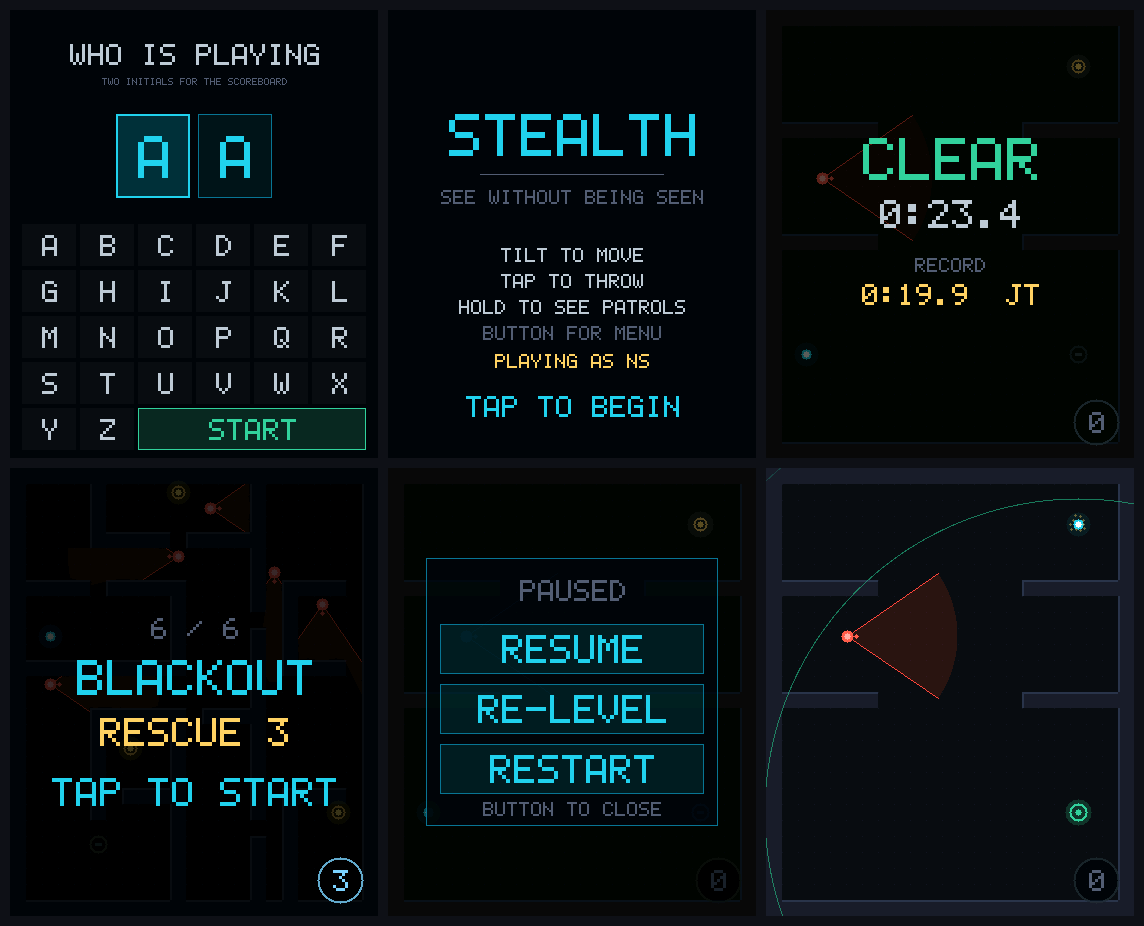
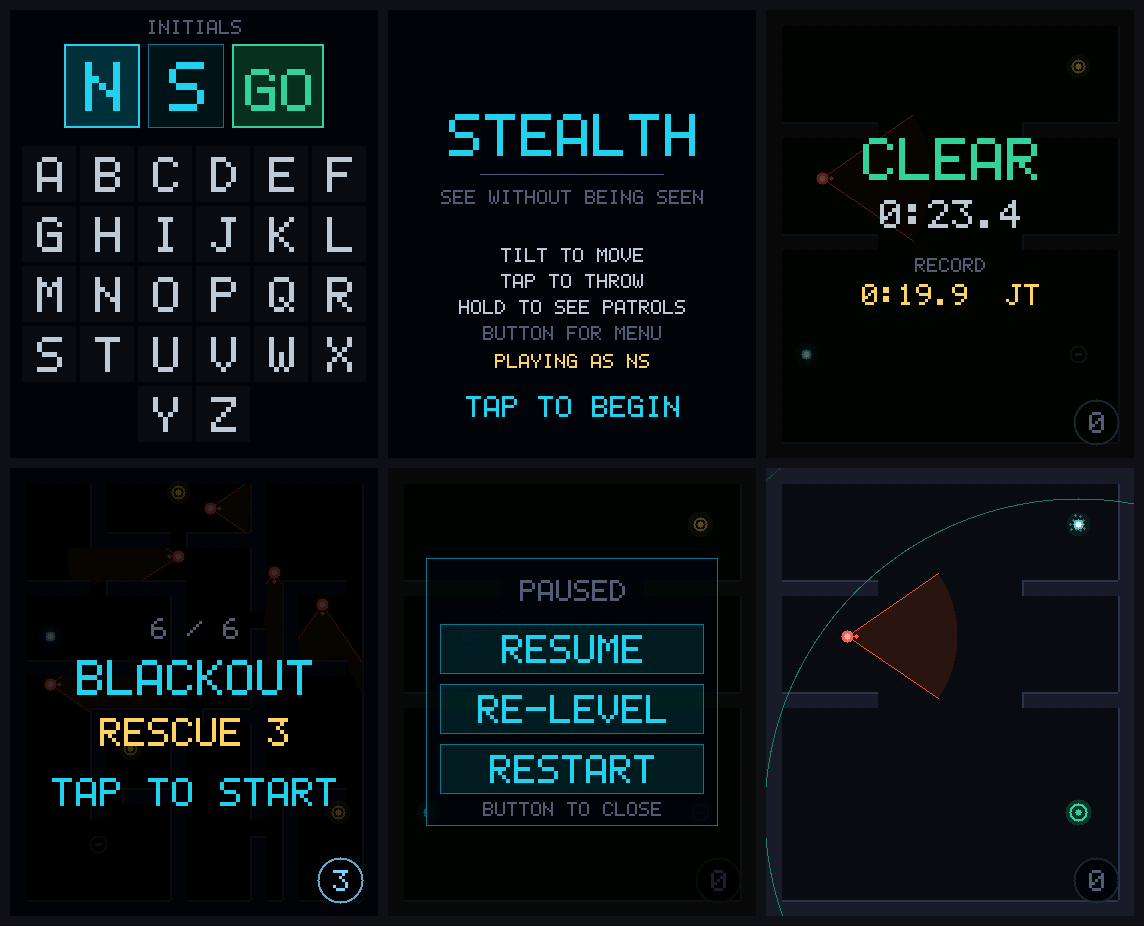
Rework initials entry for bigger, easier keys
The keys were the thing being aimed at and had the least space. Rebalanced:

- The title block shrank to a single dim line; the subtitle is gone
- GO moved out of the grid and up beside the second letter slot, which
  returned a whole row to the keyboard instead of spending it on one button
- Keys grew from 58x46 to 58x60 and their letters from 3x to 5x, so each key
  is a 58x60 target carrying a 25x35 glyph
- Y and Z are centred on the last row; left-aligning two keys under a full
  row of six read as a mistake rather than a layout

The letter slots stay tappable for correcting a mistyped first letter, and
the layout constants still live in game.h so the drawn keys and the hit test
cannot disagree about where a key is.

Changed region(s): [[0.0306, 0.0302, 0.3059, 0.2721], [0.0306, 0.3024, 0.3365, 0.4838]]

diff --git a/main/hud.c b/main/hud.c
@@ -144,45 +144,47 @@ void hud_build_input(game_input_t *in, const touch_state_t *ts,
 
 // ---- Initials entry -------------------------------------------------------
 
-// 26 letters fill the first four rows and the start of the fifth; the two
-// cells left over on the last row become the confirm key.
+// Six letters per row for four rows, then Y and Z centred on the last one -
+// left-aligning two keys under a full row looks like a mistake.
 static char init_key_at(int col, int row)
 {
-    const int i = row * INIT_COLS + col;
-    if (i < 26) return (char)('A' + i);
+    if (row < 4) {
+        const int i = row * INIT_COLS + col;
+        return (i < 26) ? (char)('A' + i) : 0;
+    }
+    if (col == 2) return 'Y';
+    if (col == 3) return 'Z';
     return 0;
 }
 
-static bool init_in_start(int x, int y)
+static bool init_in_go(int x, int y)
 {
-    const int gx = INIT_GRID_X + 2 * INIT_CELL_W;
-    const int gy = INIT_GRID_Y + 4 * INIT_CELL_H;
-    return in_rect(x, y, gx, gy, 4 * INIT_CELL_W, INIT_CELL_H);
+    return in_rect(x, y, INIT_GO_X, INIT_SLOT_Y, INIT_GO_W, INIT_SLOT_H);
 }
 
 void initials_input(game_t *g, const touch_state_t *ts, game_input_t *in)
 {
     if (!ts->pressed) return;
 
-    if (init_in_start(ts->x, ts->y)) {
+    if (init_in_go(ts->x, ts->y)) {
         in->initials_done = true;
         return;
     }
 
-    // The two letter slots are tappable, so a mistyped first letter can be
-    // corrected without cycling all the way round.
+    // The slots are tappable, so a mistyped first letter can be corrected
+    // without cycling all the way round.
     for (int i = 0; i < 2; i++) {
-        const int bx = PLAY_W / 2 - 78 + i * 82;
-        if (in_rect(ts->x, ts->y, bx, 104, 74, 84)) {
+        const int bx = INIT_SLOT_X0 + i * INIT_SLOT_PITCH;
+        if (in_rect(ts->x, ts->y, bx, INIT_SLOT_Y, INIT_SLOT_W, INIT_SLOT_H)) {
             g->initials_cursor = (uint8_t)i;
             return;
         }
     }
 
+    if (ts->x < INIT_GRID_X || ts->y < INIT_GRID_Y) return;
     const int col = (ts->x - INIT_GRID_X) / INIT_CELL_W;
     const int row = (ts->y - INIT_GRID_Y) / INIT_CELL_H;
     if (col < 0 || col >= INIT_COLS || row < 0 || row >= INIT_ROWS) return;
-    if (ts->x < INIT_GRID_X || ts->y < INIT_GRID_Y) return;
 
     const char c = init_key_at(col, row);
     if (!c) return;
@@ -194,19 +196,25 @@ void initials_input(game_t *g, const touch_state_t *ts, game_input_t *in)
 void initials_render(gfx_surf_t *s, const game_t *g)
 {
     gfx_fill_rect(s, 0, 0, PLAY_W, PLAY_H, COL_BG);
-    gfx_text_centered(s, PLAY_W / 2, 34, "WHO IS PLAYING", COL_TEXT, 3);
-    gfx_text_centered(s, PLAY_W / 2, 68, "TWO INITIALS FOR THE SCOREBOARD",
-                      COL_TEXT_DIM, 1);
+    gfx_text_centered(s, PLAY_W / 2, 10, "INITIALS", COL_TEXT_DIM, 2);
 
     for (int i = 0; i < 2; i++) {
-        const int bx = PLAY_W / 2 - 78 + i * 82;
+        const int bx = INIT_SLOT_X0 + i * INIT_SLOT_PITCH;
         const bool active = (g->initials_cursor == i);
-        gfx_blend_rect(s, bx, 104, 74, 84, COL_PLAYER, active ? 7 : 3);
-        gfx_rect_frame(s, bx, 104, 74, 84, active ? 2 : 1,
-                       active ? COL_PLAYER : COL_PLAYER_D);
+        gfx_blend_rect(s, bx, INIT_SLOT_Y, INIT_SLOT_W, INIT_SLOT_H,
+                       COL_PLAYER, active ? 7 : 3);
+        gfx_rect_frame(s, bx, INIT_SLOT_Y, INIT_SLOT_W, INIT_SLOT_H,
+                       active ? 2 : 1, active ? COL_PLAYER : COL_PLAYER_D);
         const char t[2] = { g->initials[i], 0 };
-        gfx_text_centered(s, bx + 37, 126, t, COL_PLAYER, 6);
+        gfx_text_centered(s, bx + INIT_SLOT_W / 2, INIT_SLOT_Y + 18, t,
+                          COL_PLAYER, 7);
     }
+
+    // GO sits beside the second slot rather than eating a row of keys.
+    gfx_blend_rect(s, INIT_GO_X, INIT_SLOT_Y, INIT_GO_W, INIT_SLOT_H, COL_EXIT, 7);
+    gfx_rect_frame(s, INIT_GO_X, INIT_SLOT_Y, INIT_GO_W, INIT_SLOT_H, 2, COL_EXIT);
+    gfx_text_centered(s, INIT_GO_X + INIT_GO_W / 2, INIT_SLOT_Y + 25, "GO",
+                      COL_EXIT, 6);
 
     for (int row = 0; row < INIT_ROWS; row++) {
         for (int col = 0; col < INIT_COLS; col++) {
@@ -217,17 +225,9 @@ void initials_render(gfx_surf_t *s, const game_t *g)
             gfx_blend_rect(s, x + 2, y + 2, INIT_CELL_W - 4, INIT_CELL_H - 4,
                            COL_TEXT_DIM, 4);
             const char t[2] = { c, 0 };
-            gfx_text_centered(s, x + INIT_CELL_W / 2, y + 13, t, COL_TEXT, 3);
+            gfx_text_centered(s, x + INIT_CELL_W / 2, y + 13, t, COL_TEXT, 5);
         }
     }
-
-    const int sx = INIT_GRID_X + 2 * INIT_CELL_W;
-    const int sy = INIT_GRID_Y + 4 * INIT_CELL_H;
-    gfx_blend_rect(s, sx + 2, sy + 2, 4 * INIT_CELL_W - 4, INIT_CELL_H - 4,
-                   COL_EXIT, 6);
-    gfx_rect_frame(s, sx + 2, sy + 2, 4 * INIT_CELL_W - 4, INIT_CELL_H - 4, 1,
-                   COL_EXIT);
-    gfx_text_centered(s, sx + 2 * INIT_CELL_W, sy + 13, "START", COL_EXIT, 3);
 }
 
 // ---- Drawing --------------------------------------------------------------

diff --git a/main/game.h b/main/game.h
@@ -242,12 +242,24 @@ void hud_reset(void);
 
 // Initials entry: an A-Z grid the player taps. The layout lives here so the
 // drawn keys and the hit test cannot disagree about where a key is.
+//
+// The two letter slots and the GO key share one compact row at the top, which
+// leaves the rest of the panel for the keys themselves - they are the thing
+// being aimed at, so they get the space.
+#define INIT_SLOT_Y   34
+#define INIT_SLOT_W   76
+#define INIT_SLOT_H   84
+#define INIT_SLOT_X0  54
+#define INIT_SLOT_PITCH 84
+#define INIT_GO_X     222
+#define INIT_GO_W     92
+
 #define INIT_COLS    6
 #define INIT_ROWS    5
 #define INIT_CELL_W  58
-#define INIT_CELL_H  46
+#define INIT_CELL_H  60
 #define INIT_GRID_X  ((PLAY_W - INIT_COLS * INIT_CELL_W) / 2)
-#define INIT_GRID_Y  212
+#define INIT_GRID_Y  134
 void initials_render(gfx_surf_t *s, const game_t *g);
 void initials_input(game_t *g, const touch_state_t *ts, game_input_t *in);
 // tilt_x / tilt_y come from the IMU, already in screen space and clamped to

diff --git a/tools/host/preview.c b/tools/host/preview.c
@@ -102,13 +102,13 @@ int main(int argc, char **argv)
     write_ppm(path);
 
     // Tap N, then S, then START.
-    tap(&g, INIT_GRID_X + 1 * INIT_CELL_W + 29, INIT_GRID_Y + 2 * INIT_CELL_H + 23); // N
-    tap(&g, INIT_GRID_X + 0 * INIT_CELL_W + 29, INIT_GRID_Y + 3 * INIT_CELL_H + 23); // S
+    tap(&g, INIT_GRID_X + 1 * INIT_CELL_W + 29, INIT_GRID_Y + 2 * INIT_CELL_H + 30); // N
+    tap(&g, INIT_GRID_X + 0 * INIT_CELL_W + 29, INIT_GRID_Y + 3 * INIT_CELL_H + 30); // S
     render_to_fb(&g);
     snprintf(path, sizeof(path), "%s/00b_initials.ppm", outdir);
     write_ppm(path);
     printf("initials entered: %s\n", g.initials);
-    tap(&g, PLAY_W / 2, INIT_GRID_Y + 4 * INIT_CELL_H + 23);   // START
+    tap(&g, INIT_GO_X + INIT_GO_W / 2, INIT_SLOT_Y + INIT_SLOT_H / 2);   // GO
     printf("phase after START: %d (1 = GS_TITLE)\n", (int)g.phase);
 
     // --- title ---
